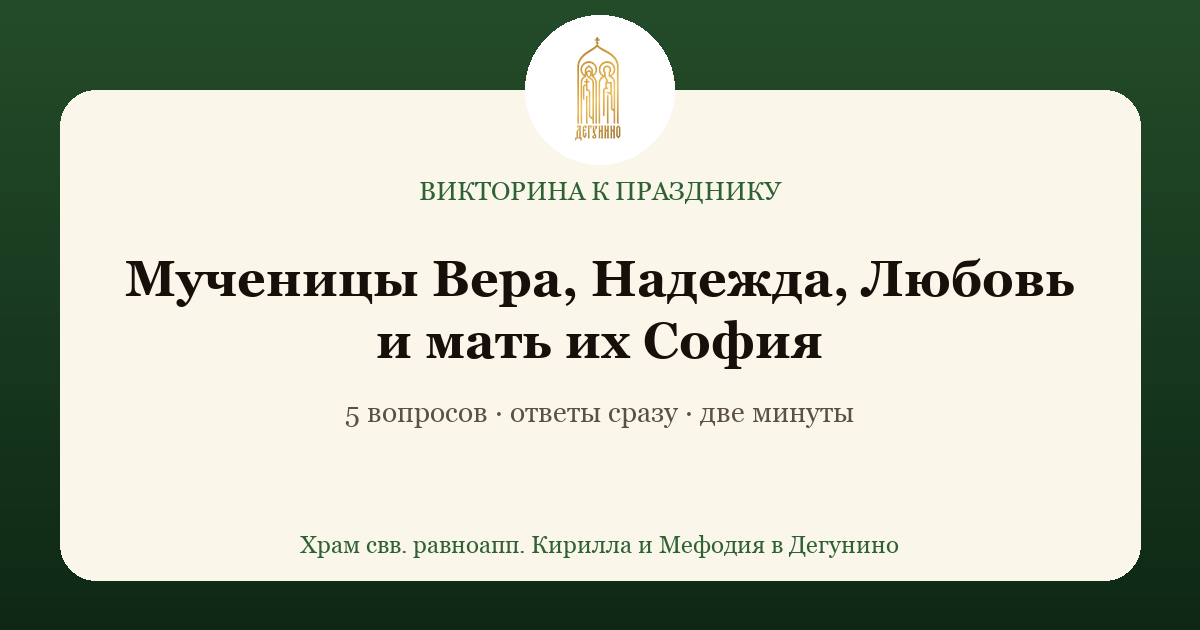
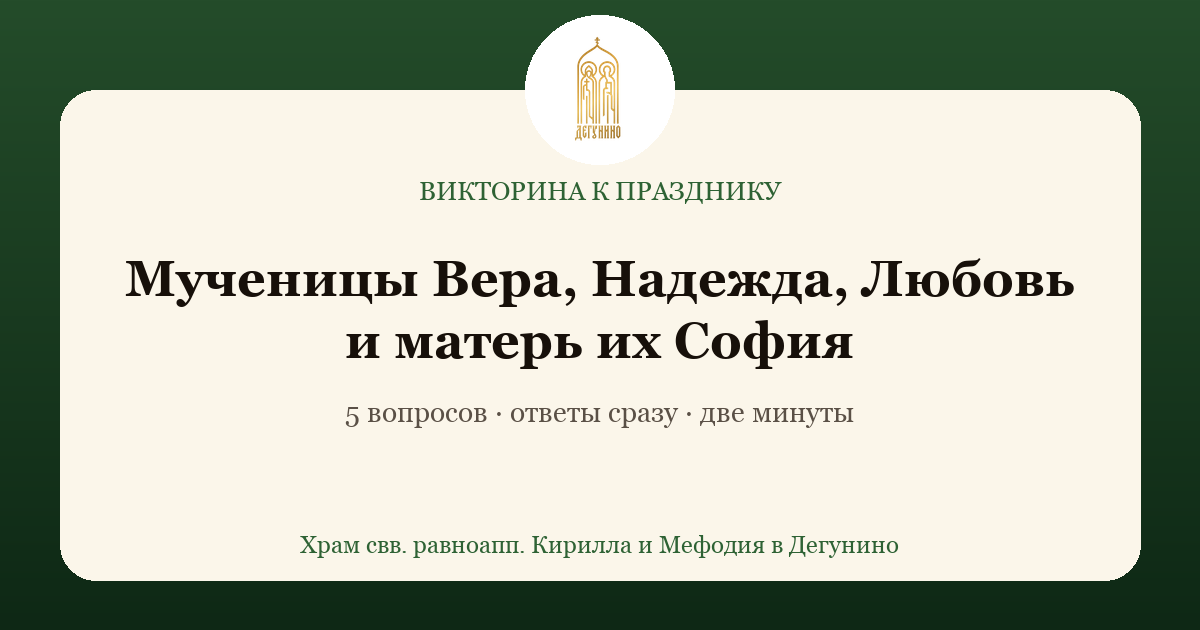
Викторина: «матерь их София» по слову матушки

Changed region(s): [[0.2775, 0.5127, 0.7092, 0.6032]]

diff --git a/viktorina/vera-nadezhda-lyubov/index.html b/viktorina/vera-nadezhda-lyubov/index.html
@@ -3,10 +3,10 @@
 <head>
 <meta charset="utf-8">
 <meta name="viewport" content="width=device-width, initial-scale=1">
-<title>Викторина · Мученицы Вера, Надежда, Любовь и мать их София</title>
+<title>Викторина · Мученицы Вера, Надежда, Любовь и матерь их София</title>
 <meta name="description" content="Пять коротких вопросов о святых сёстрах и их матери. Нажимайте на ответ — верный откроется сразу, с двумя строками объяснения.">
 <meta property="og:type" content="website">
-<meta property="og:title" content="Викторина · Мученицы Вера, Надежда, Любовь и мать их София">
+<meta property="og:title" content="Викторина · Мученицы Вера, Надежда, Любовь и матерь их София">
 <meta property="og:description" content="Пять коротких вопросов о святых сёстрах и их матери. Нажимайте на ответ — верный откроется сразу, с двумя строками объяснения.">
 <meta property="og:image" content="https://alenaprasol.github.io/degunino-raspisanie/viktorina/vera-nadezhda-lyubov/kartinka.png">
 <meta property="og:image:width" content="1200">
@@ -61,7 +61,7 @@
     <div class="logo"><img src="../../assets/logo.png" alt=""></div>
     <div class="church">Храм свв. равноапп. Кирилла и Мефодия<small>Москва, Дегунино, ул. Базовская, 15/5</small></div>
     <div class="label">Викторина к празднику</div>
-    <h1>Мученицы Вера, Надежда, Любовь и мать их София</h1>
+    <h1>Мученицы Вера, Надежда, Любовь и матерь их София</h1>
     <p class="intro">Пять коротких вопросов о святых сёстрах и их матери. Нажимайте на ответ — верный откроется сразу, с двумя строками объяснения.</p>
 
     <div id="quiz"><div class="q"><div class="q-num">Вопрос 1 из 5</div><div class="q-text">Сколько лет было сёстрам, когда они пострадали за Христа?</div><div class="opts"><button class="opt" type="button" data-right="1">12, 10 и 9 лет</button><button class="opt" type="button" data-right="0">20, 18 и 16 лет</button><button class="opt" type="button" data-right="0">6, 5 и 4 года</button></div><div class="why">Вере было 12 лет, Надежде 10, Любови 9. Они пострадали в Риме при императоре Адриане около 137 года — совсем девочки, и ни одна не отступила.</div></div><div class="q"><div class="q-num">Вопрос 2 из 5</div><div class="q-text">Что означает имя матери — София?</div><div class="opts"><button class="opt" type="button" data-right="1">Премудрость</button><button class="opt" type="button" data-right="0">Мир</button><button class="opt" type="button" data-right="0">Победа</button></div><div class="why">София по-гречески — премудрость. Дочерей звали Пистис, Элпис и Агапи; на Руси эти имена не переписали буквами, а перевели по смыслу: Вера, Надежда, Любовь. Редкий случай в святцах.</div></div><div class="q"><div class="q-num">Вопрос 3 из 5</div><div class="q-text">Как закончила земной путь святая София?</div><div class="opts"><button class="opt" type="button" data-right="1">Похоронила дочерей и на третий день тихо скончалась у их могилы</button><button class="opt" type="button" data-right="0">Была казнена вместе с дочерьми</button><button class="opt" type="button" data-right="0">Дожила до глубокой старости в монастыре</button></div><div class="why">Софию не мучили телесно: она погребла дочерей и два дня не отходила от их могилы, а на третий день Господь послал ей тихую кончину. Церковь чтит её как мученицу за муку материнского сердца.</div></div><div class="q"><div class="q-num">Вопрос 4 из 5</div><div class="q-text">Где в Москве можно поклониться мощам святой Софии?</div><div class="opts"><button class="opt" type="button" data-right="1">В храме Софии Премудрости Божией на Лубянке</button><button class="opt" type="button" data-right="0">В Елоховском соборе</button><button class="opt" type="button" data-right="0">В Новодевичьем монастыре</button></div><div class="why">Большая часть мощей святой Софии Римской хранится в храме Софии Премудрости Божией на Лубянке. От Дегунина это полчаса на метро.</div></div><div class="q"><div class="q-num">Вопрос 5 из 5</div><div class="q-text">Как этот день издавна называли в народе?</div><div class="opts"><button class="opt" type="button" data-right="1">Вселенские бабьи именины</button><button class="opt" type="button" data-right="0">Осенины</button><button class="opt" type="button" data-right="0">Капустник</button></div><div class="why">Вера, Надежда, Любовь и София — четыре самых частых женских имени на Руси, поэтому 30 сентября называли «вселенскими бабьими именинами»: именинницами в этот день были почти в каждом доме.</div></div></div>
